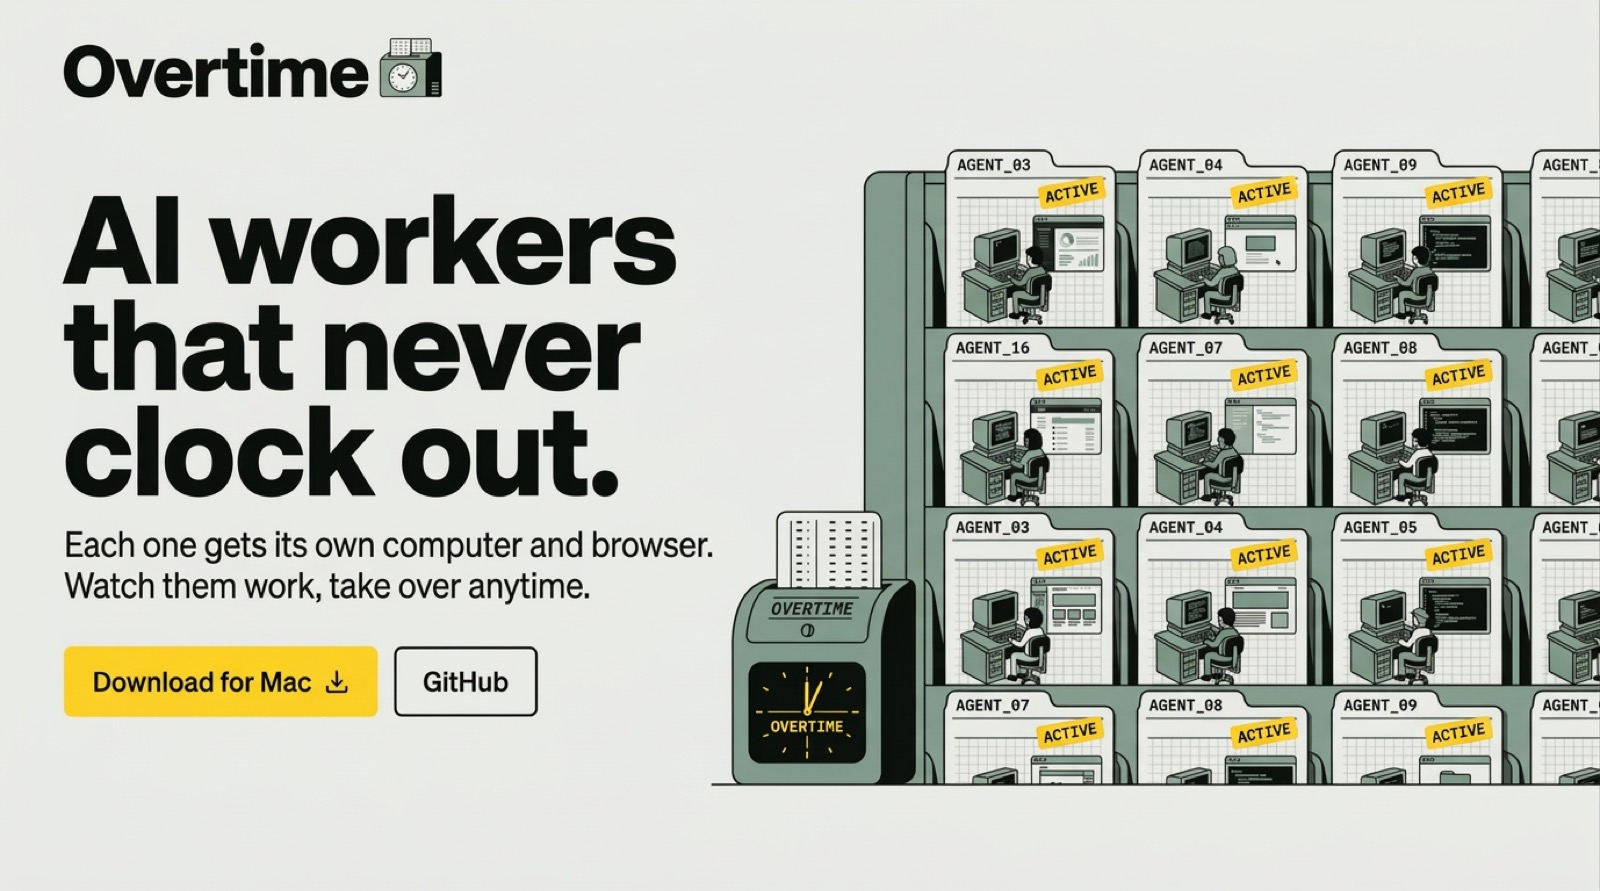
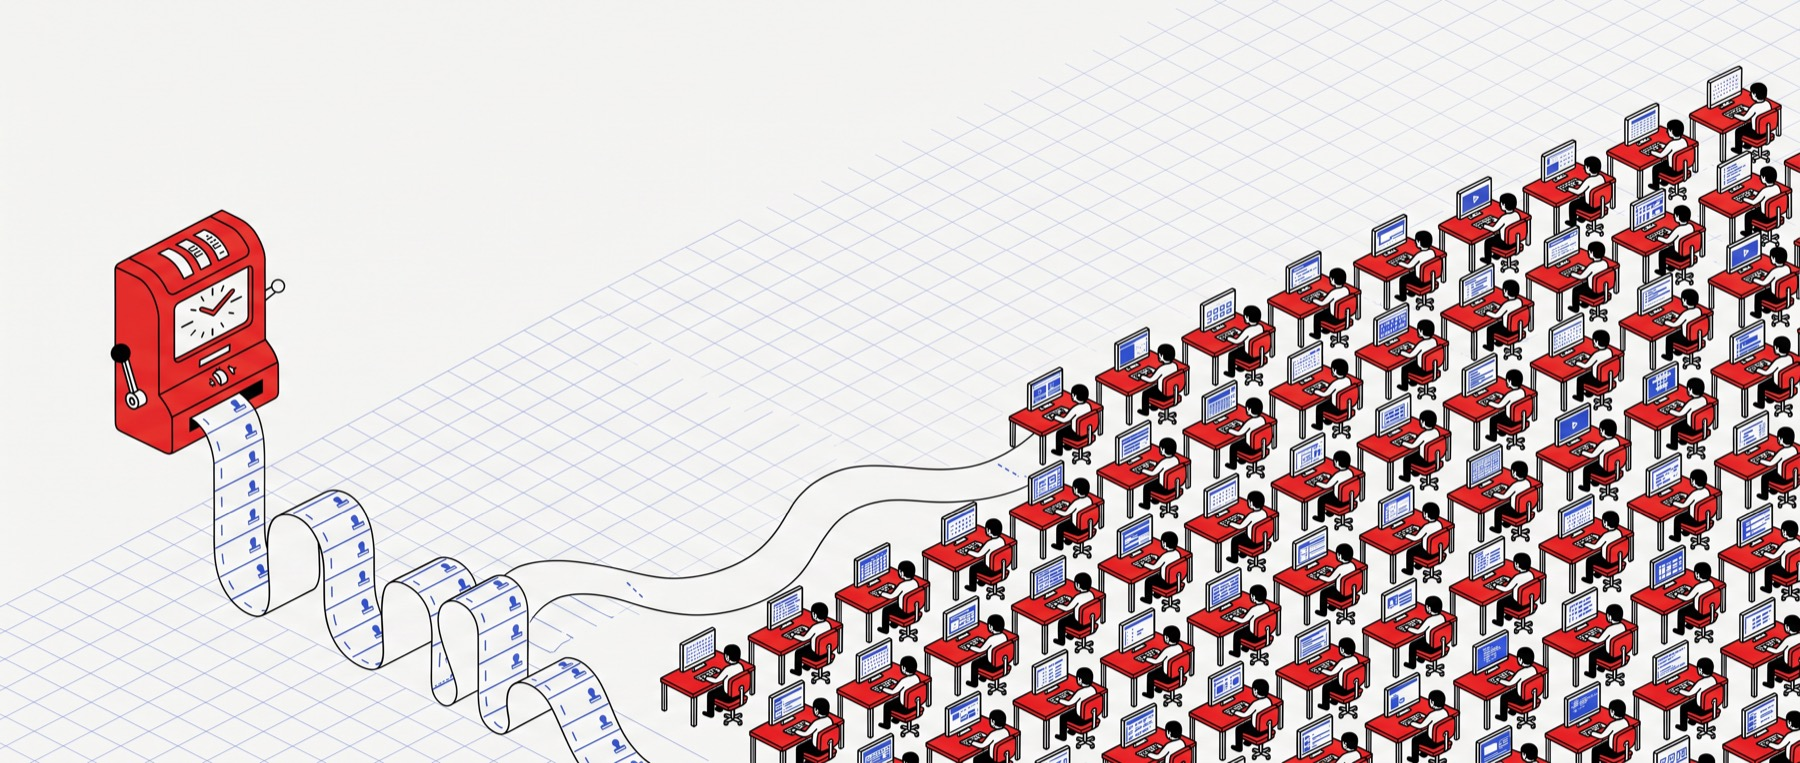
docs: dead simple hook, Signal cooled assets

diff --git a/docs/brand.md b/docs/brand.md
@@ -2,54 +2,43 @@
 
 ## Name
 
-**Overtime.** Work that keeps going after you stop. Say "Overtime AI" in titles where the word alone is ambiguous.
+**Overtime.** Agents that keep working after you stop. Say "Overtime AI" where the word alone is ambiguous.
 
 ## Logo
 
 <img src="assets/logo.png" alt="Overtime wordmark with a small punch clock" width="300">
 
-A heavy grotesk wordmark with a small punch-clock icon beside it. The icon alone is the app icon. Concept art for now; to be redrawn as vector.
+Heavy grotesk wordmark, small punch-clock icon. Concept art; to be redrawn as vector.
 
-## Colour
+## Colour: Signal, cooled
 
-Time-clock green with safety yellow. Green means selected and fine; yellow means it needs you. Black and white do the rest.
+| Role | Hex |
+|---|---|
+| Paper | `#F6F6F3` |
+| Ink | `#0D0D0D` |
+| Signal red | `#E3242B` |
+| Cobalt | `#2741D6` |
 
-| Role | Light | Dark |
-|---|---|---|
-| Ink | `#111111` | `#ECEDEA` |
-| Paper | `#ECEDEA` | `#141A17` |
-| Machine green | `#7E9C8C` | `#5F7A6C` |
-| Safety yellow | `#FFD21F` (UI: `#E9C46A`) | `#E2BC57` |
-
-Rules:
-- Yellow only ever sits behind black text, never as text.
-- In the app, about three yellow things per screen at most: the selected worker, anything that needs you, the primary button.
-- Red and green only for code diffs.
+- Red for machines and actions. Cobalt for status stamps and grids.
+- Neutral white, never cream: keeps us clear of Claude's look.
 
 ## Type
 
-- **Display:** a heavy, tight grotesk (Archivo at 900 works for drafts).
-- **Labels:** a monospace (IBM Plex Mono) for IDs, times and stamps: `AGENT_02 / GROWTH`, `IN 06:40`.
-- **App UI:** the system font. The brand stays in the chrome, cards and stamps, not in chat text.
+- Display: heavy, tight grotesk.
+- Labels: monospace for IDs, times and stamps (`AGENT_02`, `IN 06:40`).
 
 ## Motifs
 
-- **The time card** is a worker: ID, role, its live desk, its shifts, one status stamp.
-- **The punch clock** is the app: it prints the cards.
-- **Stamps** are status: On the clock, Needs you, Off the clock, Stopped, Approved.
-
-## Voice
-
-Plain, confident, a little dry. Short sentences. Office and shop-floor words over AI jargon. No hype, no "revolutionise".
+- **Time card:** one agent.
+- **Punch clock:** the app.
+- **Stamps:** status (On the clock, Needs you, Off the clock, Stopped).
 
 ## Assets
 
 | File | Use |
 |---|---|
-| [`hero.jpg`](assets/hero.jpg) | README and site hero |
-| [`banner.jpg`](assets/banner.jpg) | GitHub social preview, X header |
-| [`time-cards.jpg`](assets/time-cards.jpg) | Explaining workers and status |
-| [`timesheet.jpg`](assets/timesheet.jpg) | The shareable weekly recap (example numbers) |
-| [`app-desk-concept.jpg`](assets/app-desk-concept.jpg) | App concept: the Desk tab in macOS glass |
+| [`hero.jpg`](assets/hero.jpg) | README hero |
+| [`social-preview.jpg`](assets/social-preview.jpg) | GitHub social preview, X |
+| [`time-cards.jpg`](assets/time-cards.jpg) | Agents and status |
 
-All current images are AI-generated concepts; final assets get redrawn.
+AI-generated concepts; final assets get redrawn.

diff --git a/README.md b/README.md
@@ -1,8 +1,10 @@
 <p align="center"><img src="docs/assets/logo.png" alt="Overtime" width="300"></p>
 
-<h3 align="center">An open-source Codex and Claude Code app for running hundreds of always-on agents in the cloud.</h3>
+<h1 align="center">Claude Code and Codex with computer use.<br>For 100 agents, running 24/7.</h1>
 
-<p align="center"><img src="docs/assets/hero.jpg" alt="Overtime: a wall of AI workers, each at its own computer, next to a punch clock" width="900"></p>
+<p align="center">Open source.</p>
+
+<p align="center"><img src="docs/assets/hero.jpg" alt="A punch clock feeding a grid of hundreds of desks, each with an AI worker at its own computer" width="900"></p>
 
 > Private preview. The code moves here once it is ready.
 

diff --git a/docs/messaging.md b/docs/messaging.md
@@ -2,7 +2,7 @@
 
 ## One line
 
-An open-source Codex and Claude Code app for running hundreds of always-on agents in the cloud.
+Claude Code and Codex with computer use. For 100 agents, running 24/7.
 
 ## Problem
 
